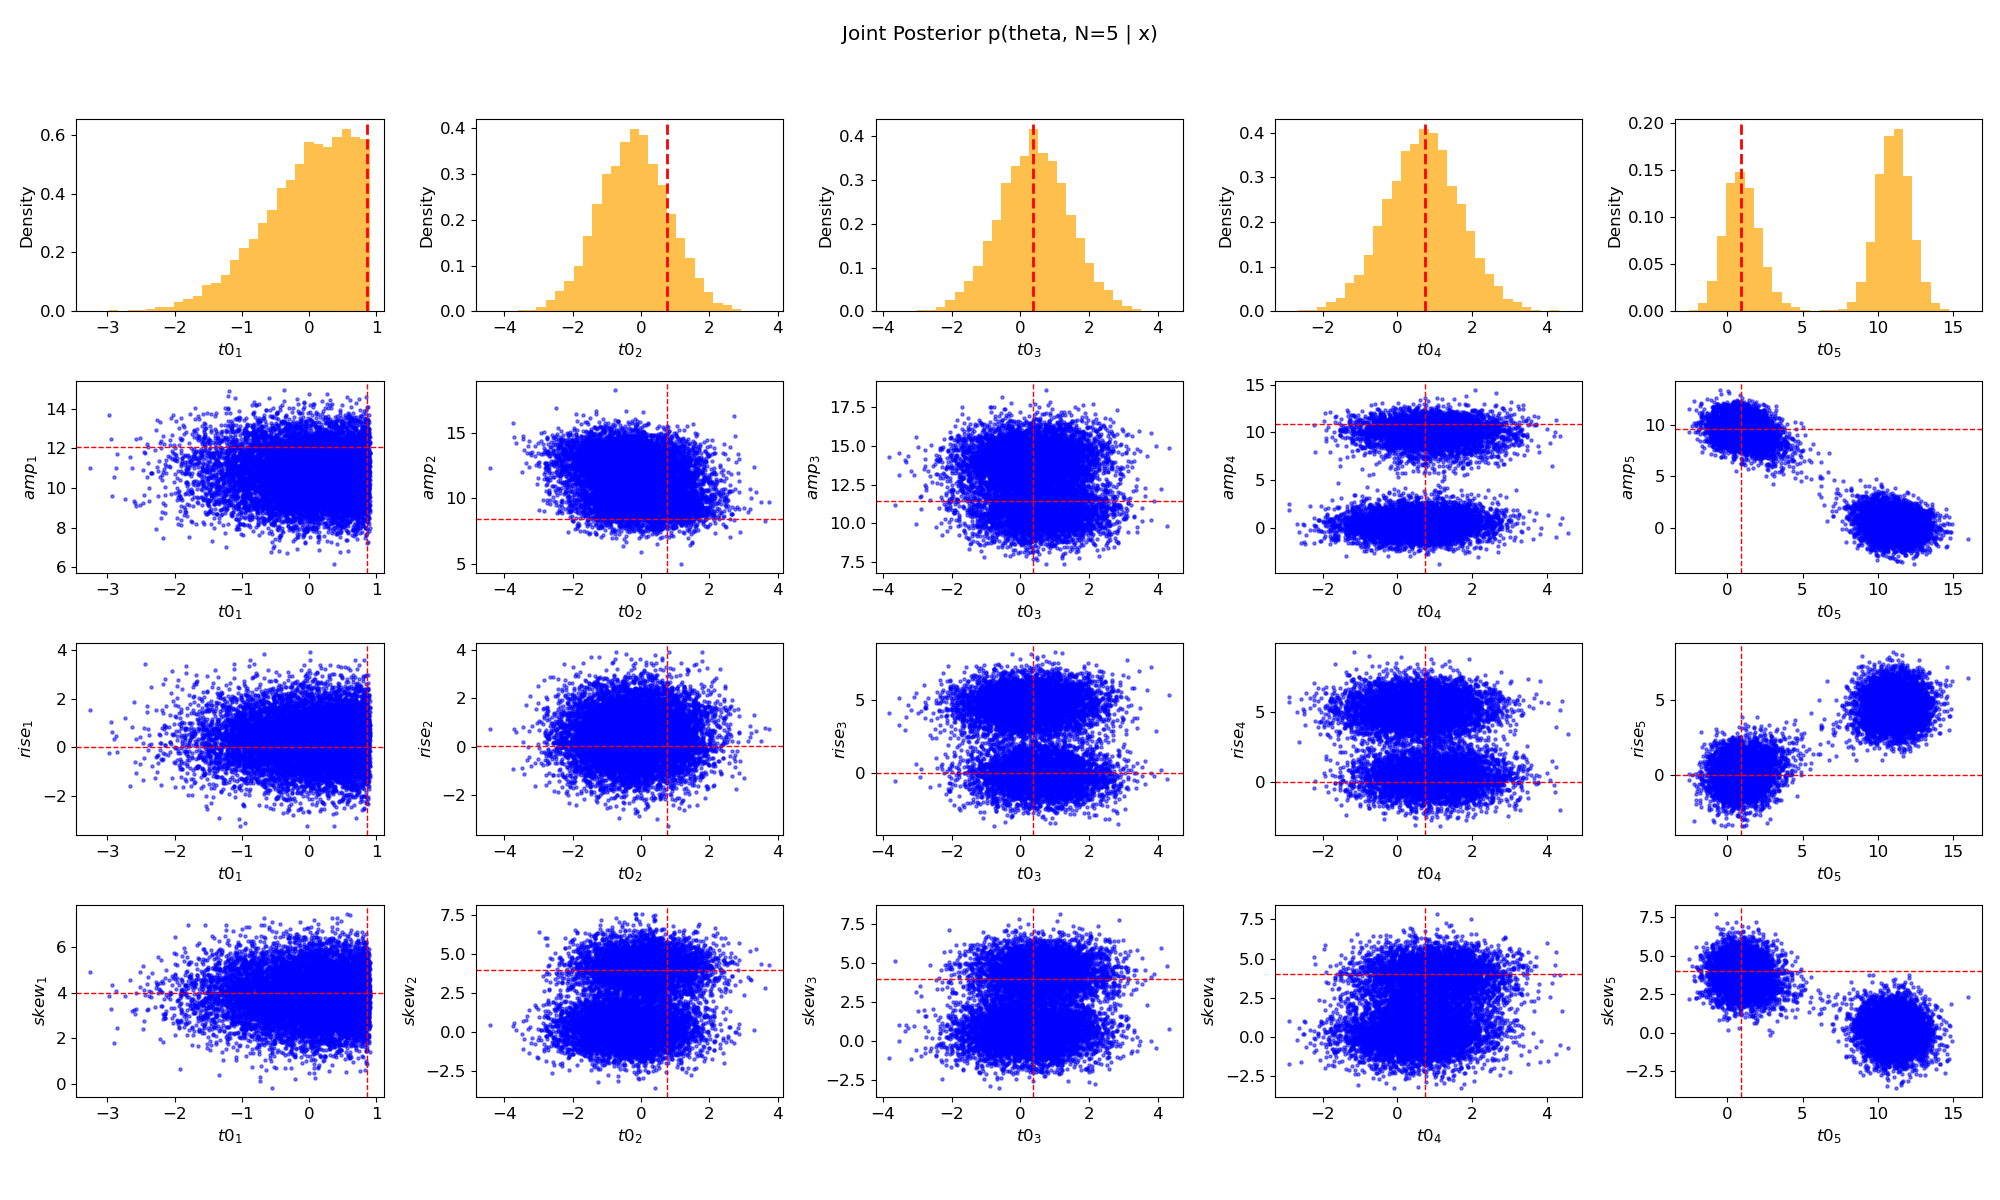
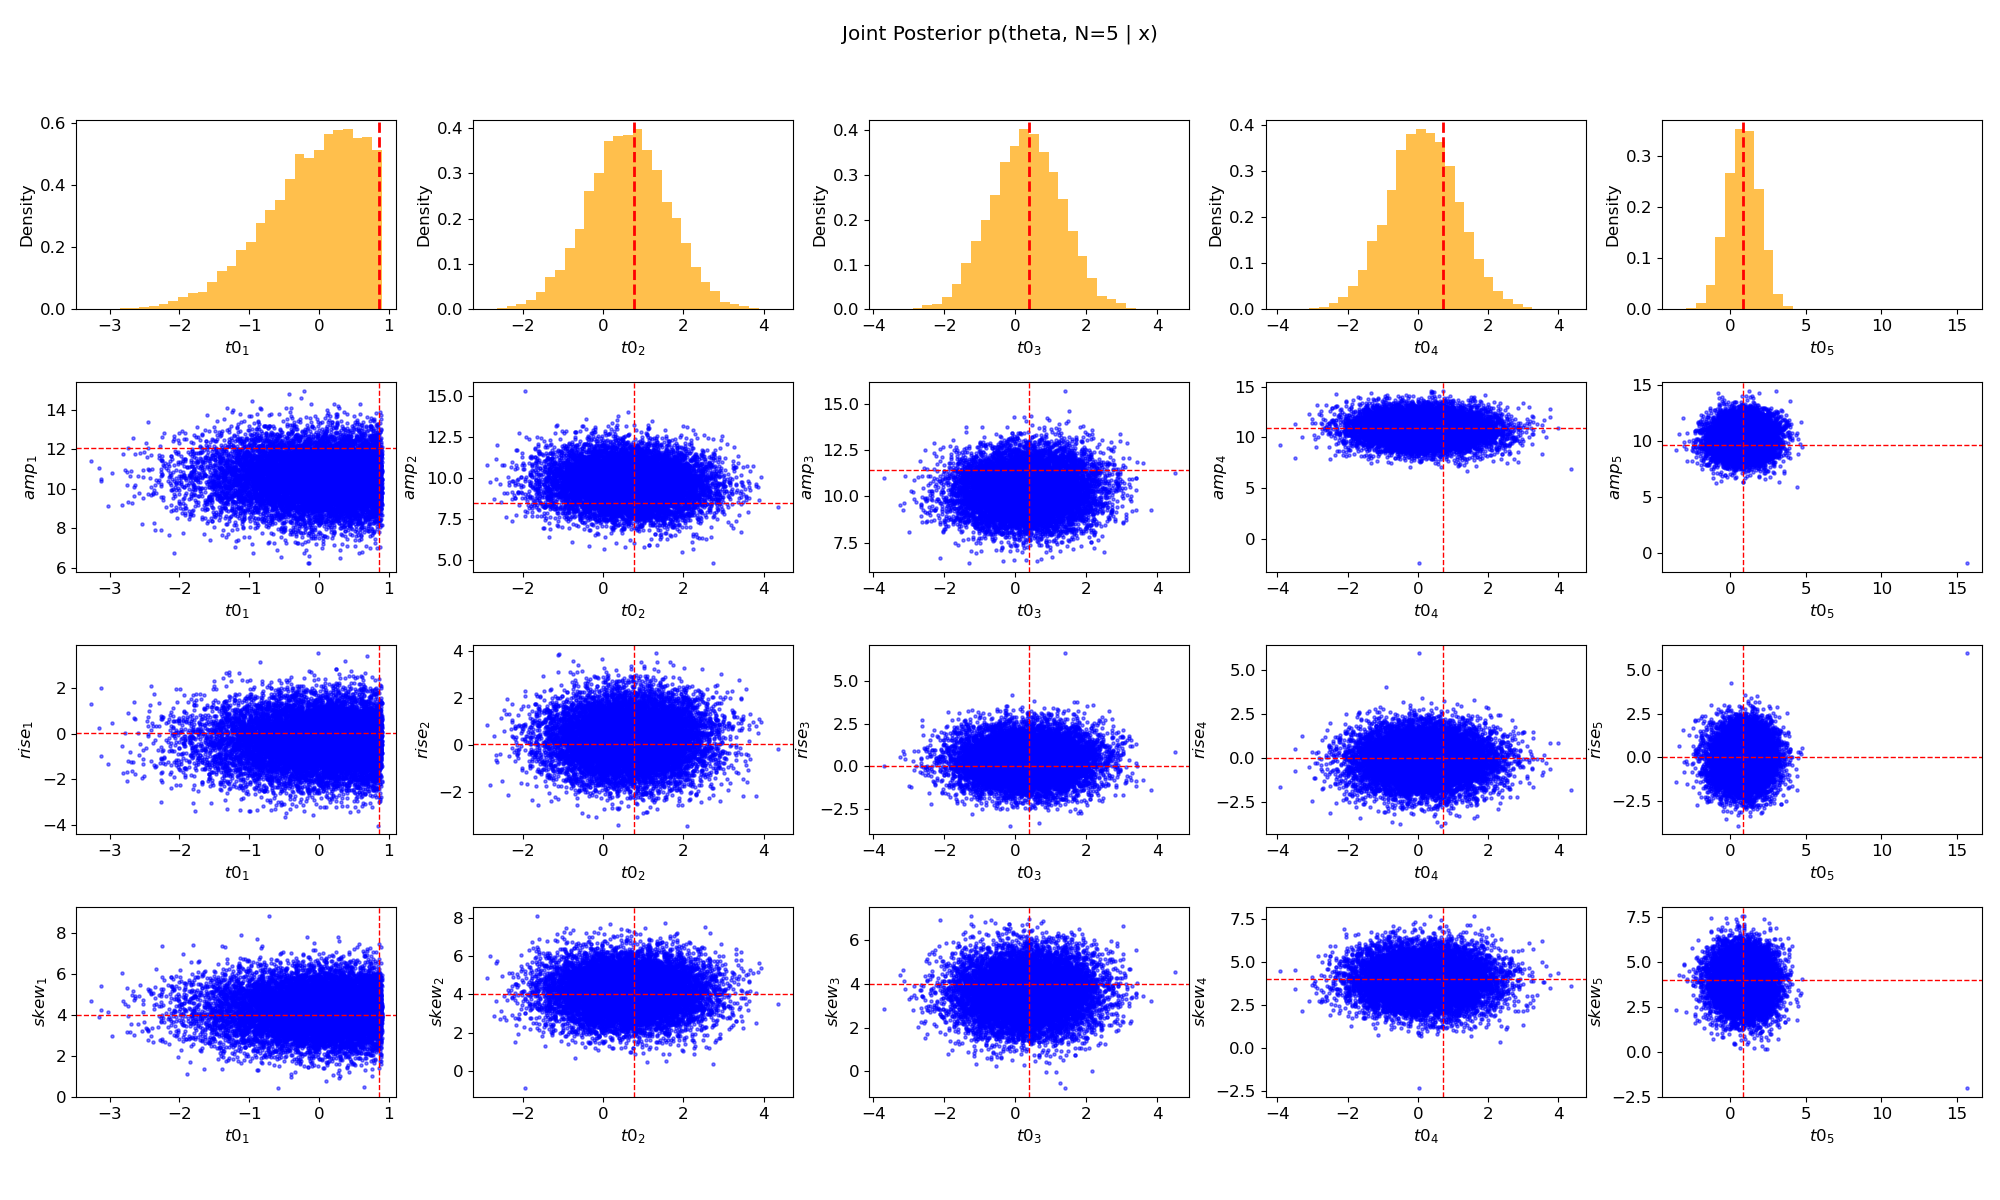
implement sampling; further visualisation

diff --git a/experiments/fmpe_deep_sets_burst.py b/experiments/fmpe_deep_sets_burst.py
@@ -106,6 +106,21 @@ with torch.no_grad():
     # Apply the condition without the extra dimension
     filtered_samples = samples_theta_given_x_N[torch.where(samples_theta_given_x_N[:, 0] <= t0_upper)]
     p_N_given_x = num_estimator(x_star.unsqueeze(0))
+    Ns = torch.multinomial(p_N_given_x, 10000, replacement=True).squeeze()
+
+    # Create a tensor to store the sampled thetas
+    sampled_thetas = torch.zeros((10000, 4 * max_ncomp))
+
+    # Sample p(theta | N, x) for each sampled N
+    for N in range(1, max_ncomp + 1):
+        mask = (Ns == N - 1)  # Adjust the mask to match 0-based index
+        if mask.any():
+            x_repeated = x_star.unsqueeze(0).repeat(mask.sum(), 1)
+            sampled_thetas_N = estimator.flow(x_repeated).sample()
+            sampled_thetas[mask, :sampled_thetas_N.size(1)] = sampled_thetas_N
+
+    # Group the sampled thetas by N
+    grouped_thetas = [sampled_thetas[Ns == N - 1, :4*N] for N in range(1, max_ncomp + 1)]
 
 # Compute the joint posterior p(theta, N | x) = p(theta | x, N) * p(N | x)
 joint_posterior = torch.exp(log_p_theta_given_x_N).squeeze() * p_N_given_x.squeeze()
@@ -225,3 +240,35 @@ plt.title('Joint Log Posterior p(theta, N | x)')
 plt.tight_layout()
 plt.savefig('experiments/plots/joint_log_posterior_heatmap.png')  # Save the plot to the 'plots' folder
 plt.close()  # Close the current figure
+
+# Plot the joint posterior p(theta, N | x) using the sampled thetas
+fig, axes = plt.subplots(4, max_ncomp, figsize=(4*max_ncomp, 12))
+
+for i in range(4):
+    for j in range(max_ncomp):
+        if i == 0:
+            for N, thetas in enumerate(grouped_thetas, start=1):
+                if thetas.size(0) > 0:
+                    idx = j
+                    if idx < thetas.size(1) // 4:
+                        axes[i, j].hist(thetas[:, idx].numpy(), bins=30, density=True, alpha=0.5, label=f'N={N}')
+                        axes[i, j].axvline(theta_star[idx].item(), color='red', linestyle='--', linewidth=2)
+                        axes[i, j].set_xlabel(LABELS[idx])
+                        axes[i, j].set_ylabel('Density')
+            if j == max_ncomp - 1:
+                axes[i, j].legend()
+        else:
+            for N, thetas in enumerate(grouped_thetas, start=1):
+                if thetas.size(0) > 0:
+                    idx = i*max_ncomp + j
+                    if j < thetas.size(1) // 4 and idx < thetas.size(1):
+                        axes[i, j].scatter(thetas[:, j].numpy(), thetas[:, idx].numpy(), s=5, alpha=0.5, label=f'N={N}')
+                        axes[i, j].axvline(theta_star[j].item(), color='red', linestyle='--', linewidth=1)
+                        axes[i, j].axhline(theta_star[idx].item(), color='red', linestyle='--', linewidth=1)
+                        axes[i, j].set_xlabel(LABELS[j])
+                        axes[i, j].set_ylabel(LABELS[idx])
+
+plt.suptitle('Joint Posterior p(theta, N | x)')
+plt.tight_layout(rect=[0, 0.03, 1, 0.95])
+plt.savefig('experiments/plots/joint_posterior_theta_N_sampled.png')
+plt.close()
